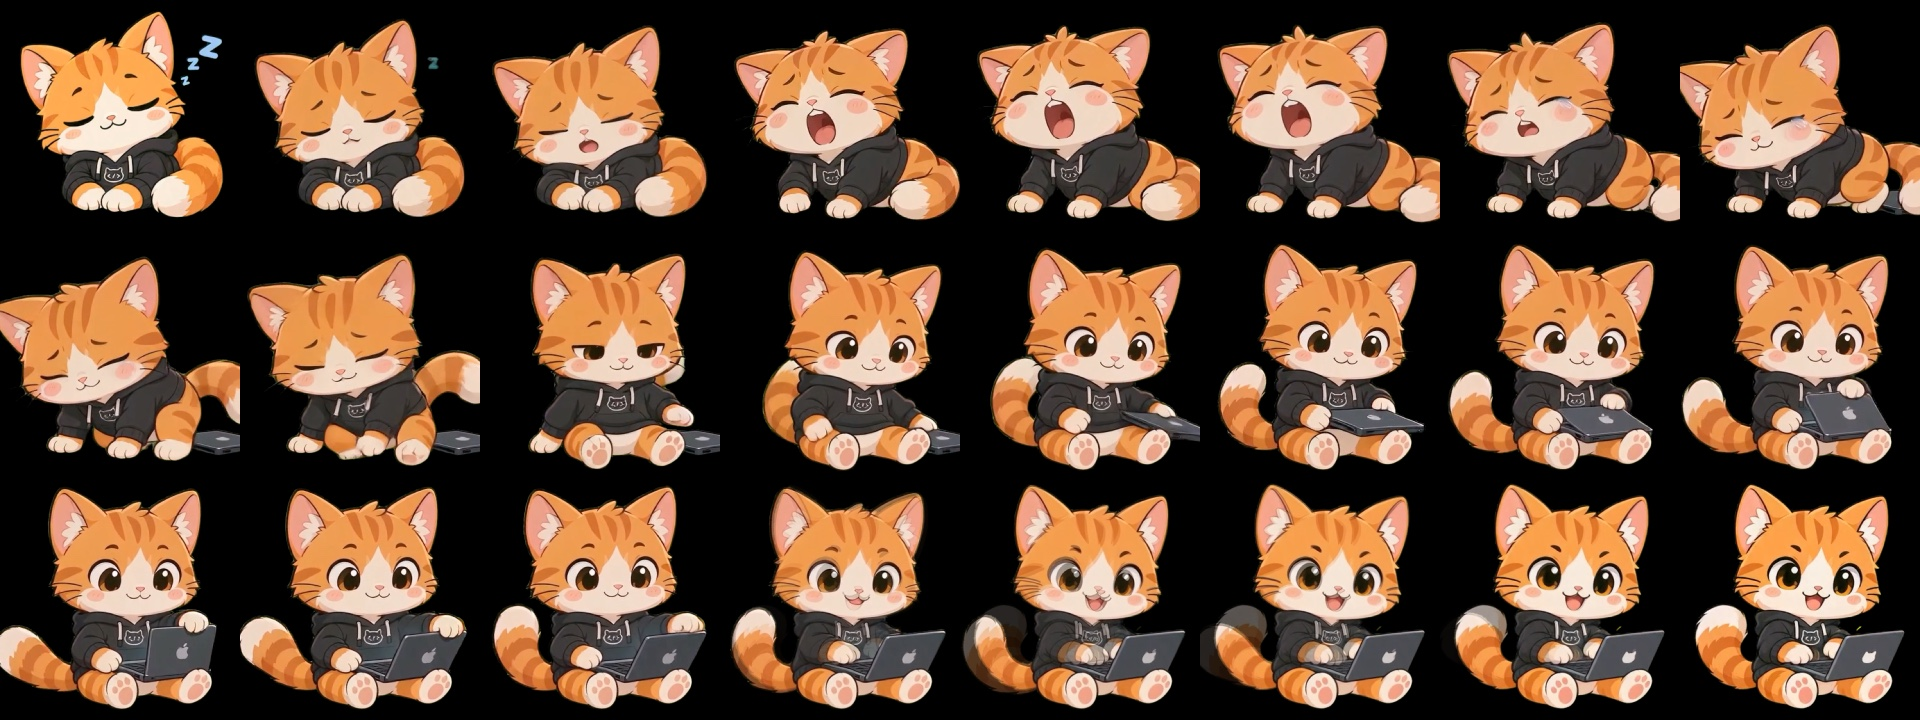
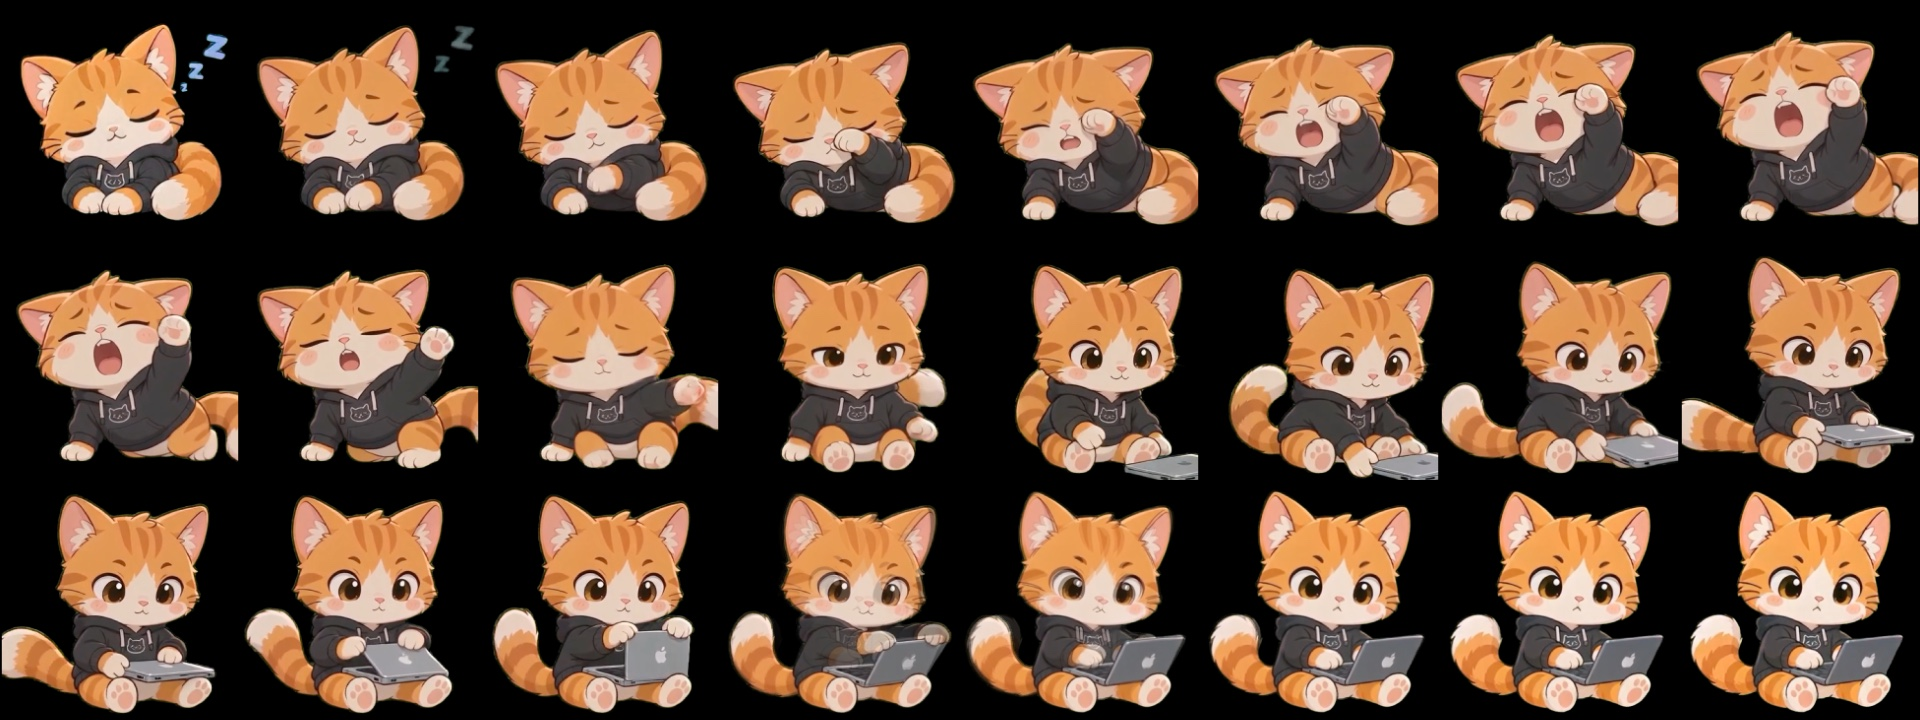
feat: 重新生成 to-working（首尾帧用循环第一帧），过渡首尾对齐到两头循环
两处同类问题：API 输出比输入整体大 1.5%，上下两行错开 5～6 像素（接缝 0.25–0.29）；
过渡的最后一刀还在按「最像原图」找，漏掉了钉死的尾帧。修完三段接缝 0.052–0.055，
跟循环自己的抖动一样。

diff --git a/scripts/cat-frames.swift b/scripts/cat-frames.swift
@@ -205,7 +205,7 @@ func downsample(_ p: [Float], from big: Int, to small: Int) -> [Float] {
 // ---- 一段：抽帧、修剪、接缝 -------------------------------------------------
 
 /// 整个视频抽成三行帧序列，每行一只猫。
-func rows(of url: URL, expected: Double) async throws -> (rows: [[Frame]], scale: Double) {
+func rows(of url: URL, expected: Double, lastFrame: Bool) async throws -> (rows: [[Frame]], scale: Double) {
     let asset = AVURLAsset(url: url)
     let duration = try await asset.load(.duration).seconds
     let generator = AVAssetImageGenerator(asset: asset)
@@ -227,6 +227,19 @@ func rows(of url: URL, expected: Double) async throws -> (rows: [[Frame]], scale
         }
         for row in 0..<3 { out[row].append(key(image, channel: channel, art: boxes[row])) }
         t += 1 / fps
+    }
+    // 过渡表的最后一帧就是钉死的尾帧——循环的第一帧。12fps 抽帧最后一刀落在
+    // 4.92 秒，还是模型自己画的那只（大小、位置差 5% 左右），真正落到尾帧上是
+    // 最后 1/24 秒的事，不补这一帧就永远接不上循环：实测接缝 0.11–0.25。
+    // 文件时长是音轨和视频轨里长的那个，视频轨往往短一点，正好卡在末尾要不到
+    // 帧；往回退着要，第一张要到的就是最后一帧。
+    if lastFrame {
+        for back in 1...24 {
+            let time = CMTime(seconds: duration - Double(back) / 240, preferredTimescale: 2400)
+            guard let (image, _) = try? await generator.image(at: time) else { continue }
+            for row in 0..<3 { out[row].append(key(image, channel: channel, art: boxes[row])) }
+            break
+        }
     }
     // 表里的秒数按视频实际时长等比换算：生成成了 10 秒的 5 秒表，切点跟着拉长。
     if abs(duration - expected) > 0.3 {
@@ -417,9 +430,11 @@ var looped = Set<String>()
 /// 这里已经有了。
 var loopStarts: [String: Frame] = [:]
 
-func emit(_ name: String, kind: String, pose: String, from: String, slice: [Frame], seam measured: Float) throws {
+func emit(_ name: String, kind: String, pose: String, from: String, slice raw: [Frame], seam measured: Float) throws {
     var seam = measured
+    var slice = raw
     if kind == "transition" {
+        slice = register(raw, start: loopStarts[from], end: loopStarts[pose])
         // 两头各跟要接的那个循环的第一帧比；哪头的循环还没有，就保留传进来的分。
         var joins: [Float] = []
         if let start = loopStarts[from] { joins.append(slice.first!.difference(start)) }
@@ -489,6 +504,74 @@ func saveAnchor(_ pose: String, from url: URL, frame: Int, art: CGRect) async th
     try write(ctx.makeImage(), to: anchors.appendingPathComponent("\(pose).png"), type: .png, options: [:])
 }
 
+// ---- 过渡对齐 ------------------------------------------------------------------
+
+/// 一帧的缩放 + 平移，以画面中心为原点。
+struct Fit { var scale: Float = 1; var dx: Float = 0; var dy: Float = 0 }
+
+/// 按 fit 重采样。双线性，在预乘空间里插值，边缘不会带出黑边。
+func warp(_ f: Frame, _ fit: Fit) -> Frame {
+    if fit.scale == 1 && fit.dx == 0 && fit.dy == 0 { return f }
+    var out = [Float](repeating: 0, count: f.pixels.count)
+    let c = Float(size) / 2
+    for y in 0..<size { for x in 0..<size {
+        let sx = (Float(x) - c - fit.dx) / fit.scale + c, sy = (Float(y) - c - fit.dy) / fit.scale + c
+        let x0 = Int(sx.rounded(.down)), y0 = Int(sy.rounded(.down))
+        let fx = sx - Float(x0), fy = sy - Float(y0)
+        var acc: (Float, Float, Float, Float) = (0, 0, 0, 0)
+        for (ox, oy, w) in [(0, 0, (1 - fx) * (1 - fy)), (1, 0, fx * (1 - fy)), (0, 1, (1 - fx) * fy), (1, 1, fx * fy)] {
+            let px = x0 + ox, py = y0 + oy
+            guard px >= 0, py >= 0, px < size, py < size, w > 0 else { continue }
+            let i = (py * size + px) * 4, a = f.pixels[i + 3] * w
+            acc.0 += f.pixels[i] * a; acc.1 += f.pixels[i + 1] * a; acc.2 += f.pixels[i + 2] * a; acc.3 += a
+        }
+        let o = (y * size + x) * 4
+        if acc.3 > 0 { out[o] = acc.0 / acc.3; out[o + 1] = acc.1 / acc.3; out[o + 2] = acc.2 / acc.3 }
+        out[o + 3] = acc.3
+    } }
+    return Frame(pixels: out)
+}
+
+/// 找把 frame 对到 target 上最好的缩放 + 平移。先粗后细，比较时隔点取样。
+func bestFit(_ frame: Frame, onto target: Frame) -> Fit {
+    var best = Fit(), bestD = frame.difference(target)
+    func trial(_ fit: Fit) {
+        let d = warp(frame, fit).difference(target)
+        if d < bestD { bestD = d; best = fit }
+    }
+    for s in stride(from: Float(0.95), through: 1.05, by: 0.01) {
+        for dy in stride(from: Float(-10), through: 10, by: 2) { for dx in stride(from: Float(-10), through: 10, by: 2) {
+            trial(Fit(scale: s, dx: dx, dy: dy))
+        } }
+    }
+    let coarse = best
+    for s in stride(from: coarse.scale - 0.01, through: coarse.scale + 0.01, by: 0.0025) {
+        for dy in stride(from: coarse.dy - 2, through: coarse.dy + 2, by: 0.5) {
+            for dx in stride(from: coarse.dx - 2, through: coarse.dx + 2, by: 0.5) { trial(Fit(scale: s, dx: dx, dy: dy)) }
+        }
+    }
+    return best
+}
+
+/// 把过渡对齐到它要接的两个循环上。
+///
+/// 火山方舟出的视频跟输入图并不逐像素重合：整张画面会有约 2% 的缩放，落到上下两行
+/// 的猫身上就是 5～6 像素的上下错位（实测上行 +5、中行 −1、下行 −6），钉死的尾帧
+/// 也一样。首尾各求一个最贴合的缩放 + 平移，中间的帧按时间从前者渐变到后者。
+func register(_ frames: [Frame], start: Frame?, end: Frame?) -> [Frame] {
+    guard let first = frames.first, let last = frames.last, start != nil || end != nil else { return frames }
+    let a = start.map { bestFit(first, onto: $0) } ?? Fit()
+    let b = end.map { bestFit(last, onto: $0) } ?? Fit()
+    print(String(format: "    aligned: start ×%.3f %+.1f,%+.1f  end ×%.3f %+.1f,%+.1f",
+                 a.scale, a.dx, a.dy, b.scale, b.dx, b.dy))
+    let n = Float(max(frames.count - 1, 1))
+    return frames.enumerated().map { i, f in
+        let t = Float(i) / n
+        return warp(f, Fit(scale: a.scale + (b.scale - a.scale) * t,
+                           dx: a.dx + (b.dx - a.dx) * t, dy: a.dy + (b.dy - a.dy) * t))
+    }
+}
+
 /// 模型在最后一两帧里硬吸到尾帧上（实测最后一步 0.16，正常一帧 0.03）。把最后
 /// 几帧逐渐混向最后一帧，一下跳变成一小段变形。
 func easeIntoEnd(_ frames: [Frame]) -> [Frame] {
@@ -518,7 +601,8 @@ for sheet in spec.sheets {
     }.first { FileManager.default.fileExists(atPath: $0.path) }
     guard let url else { print("\(sheet.name): no video yet"); continue }
     print("\(sheet.name):")
-    let (rows, scale) = try await rows(of: url, expected: sheet.duration)
+    let (rows, scale) = try await rows(of: url, expected: sheet.duration,
+                                       lastFrame: sheet.rows.contains { $0.from != $0.to })
 
     for (r, row) in sheet.rows.enumerated() {
         let frames = rows[r]
@@ -564,7 +648,9 @@ for sheet in spec.sheets {
         let tail = Int(1.5 * fps)
         let end = frames.indices.suffix(tail + 1).filter { $0 > cuts.last! }
             .min { distance($0, row.to) < distance($1, row.to) }
-        cuts.append(end ?? frames.count - 1)
+        // 以过渡收尾的行不找：尾帧就是钉死的循环第一帧，最后一帧就是终点。按
+        // 「最像原图」去找会挑中模型自己画的那只，又接不上循环。
+        cuts.append(row.segments.last?.kind == "transition" ? frames.count - 1 : (end ?? frames.count - 1))
 
         for (i, segment) in row.segments.enumerated() {
             guard segment.kind != "skip", let name = segment.name else { continue }

diff --git a/docs/seedance.md b/docs/seedance.md
@@ -118,3 +118,8 @@ swift build && .build/debug/ClaudePet         # 或 ./scripts/install.sh
   最后一帧，变成一小段变形（0.034）。
 - **过渡要用带尾帧的 API 生成**（`python3 scripts/seedance.py <表名>`）。豆包 App 只能给
   首帧，终点姿势是模型自己编的。
+- **API 出的视频比输入图整体大约 1.5%**，连钉死的尾帧也是：上下两行的猫会错开 5～6 像素，
+  光这一点就让接缝从 0.05 涨到 0.25–0.29。抽帧时会给每段过渡首尾各求一个缩放 + 平移，
+  对到两头循环的第一帧上，中间逐帧渐变（实测 ×0.985，上 +5.5 / 中 0 / 下 −5.5 像素）。
+- **过渡的最后一刀就是视频最后一帧**，不要按「最像原图」去找，也别漏掉：12fps 抽帧的最后
+  一刀落在 4.92 秒，钉死的尾帧在最后 1/24 秒里。
